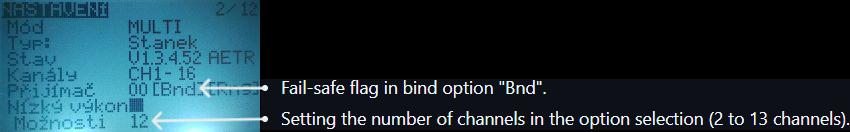
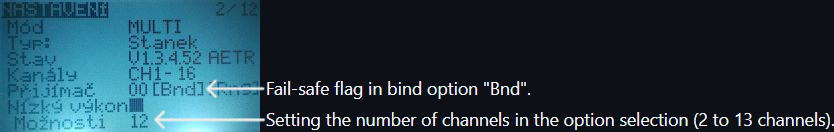
update readme

diff --git a/README.md b/README.md
@@ -16,7 +16,7 @@ The code is Arduino.
 
 * [**Multiprotocol TX**](https://github.com/stanekTM/TX_Multiprotocol_Stanek) from my fork
 
-<a href="https://github.com/stanekTM/TX_Multiprotocol_Stanek"><img width="850" src="documents/opentx_multi_tx.png"></a>
+<a href="https://github.com/stanekTM/TX_Multiprotocol_Stanek"><img width="834" src="documents/opentx_multi_tx.png"></a>
 
 ### RC receiver specification
 * Operating Voltage: 3.3V - 6.0V (target typically 4.2V, 1S LiPo)
